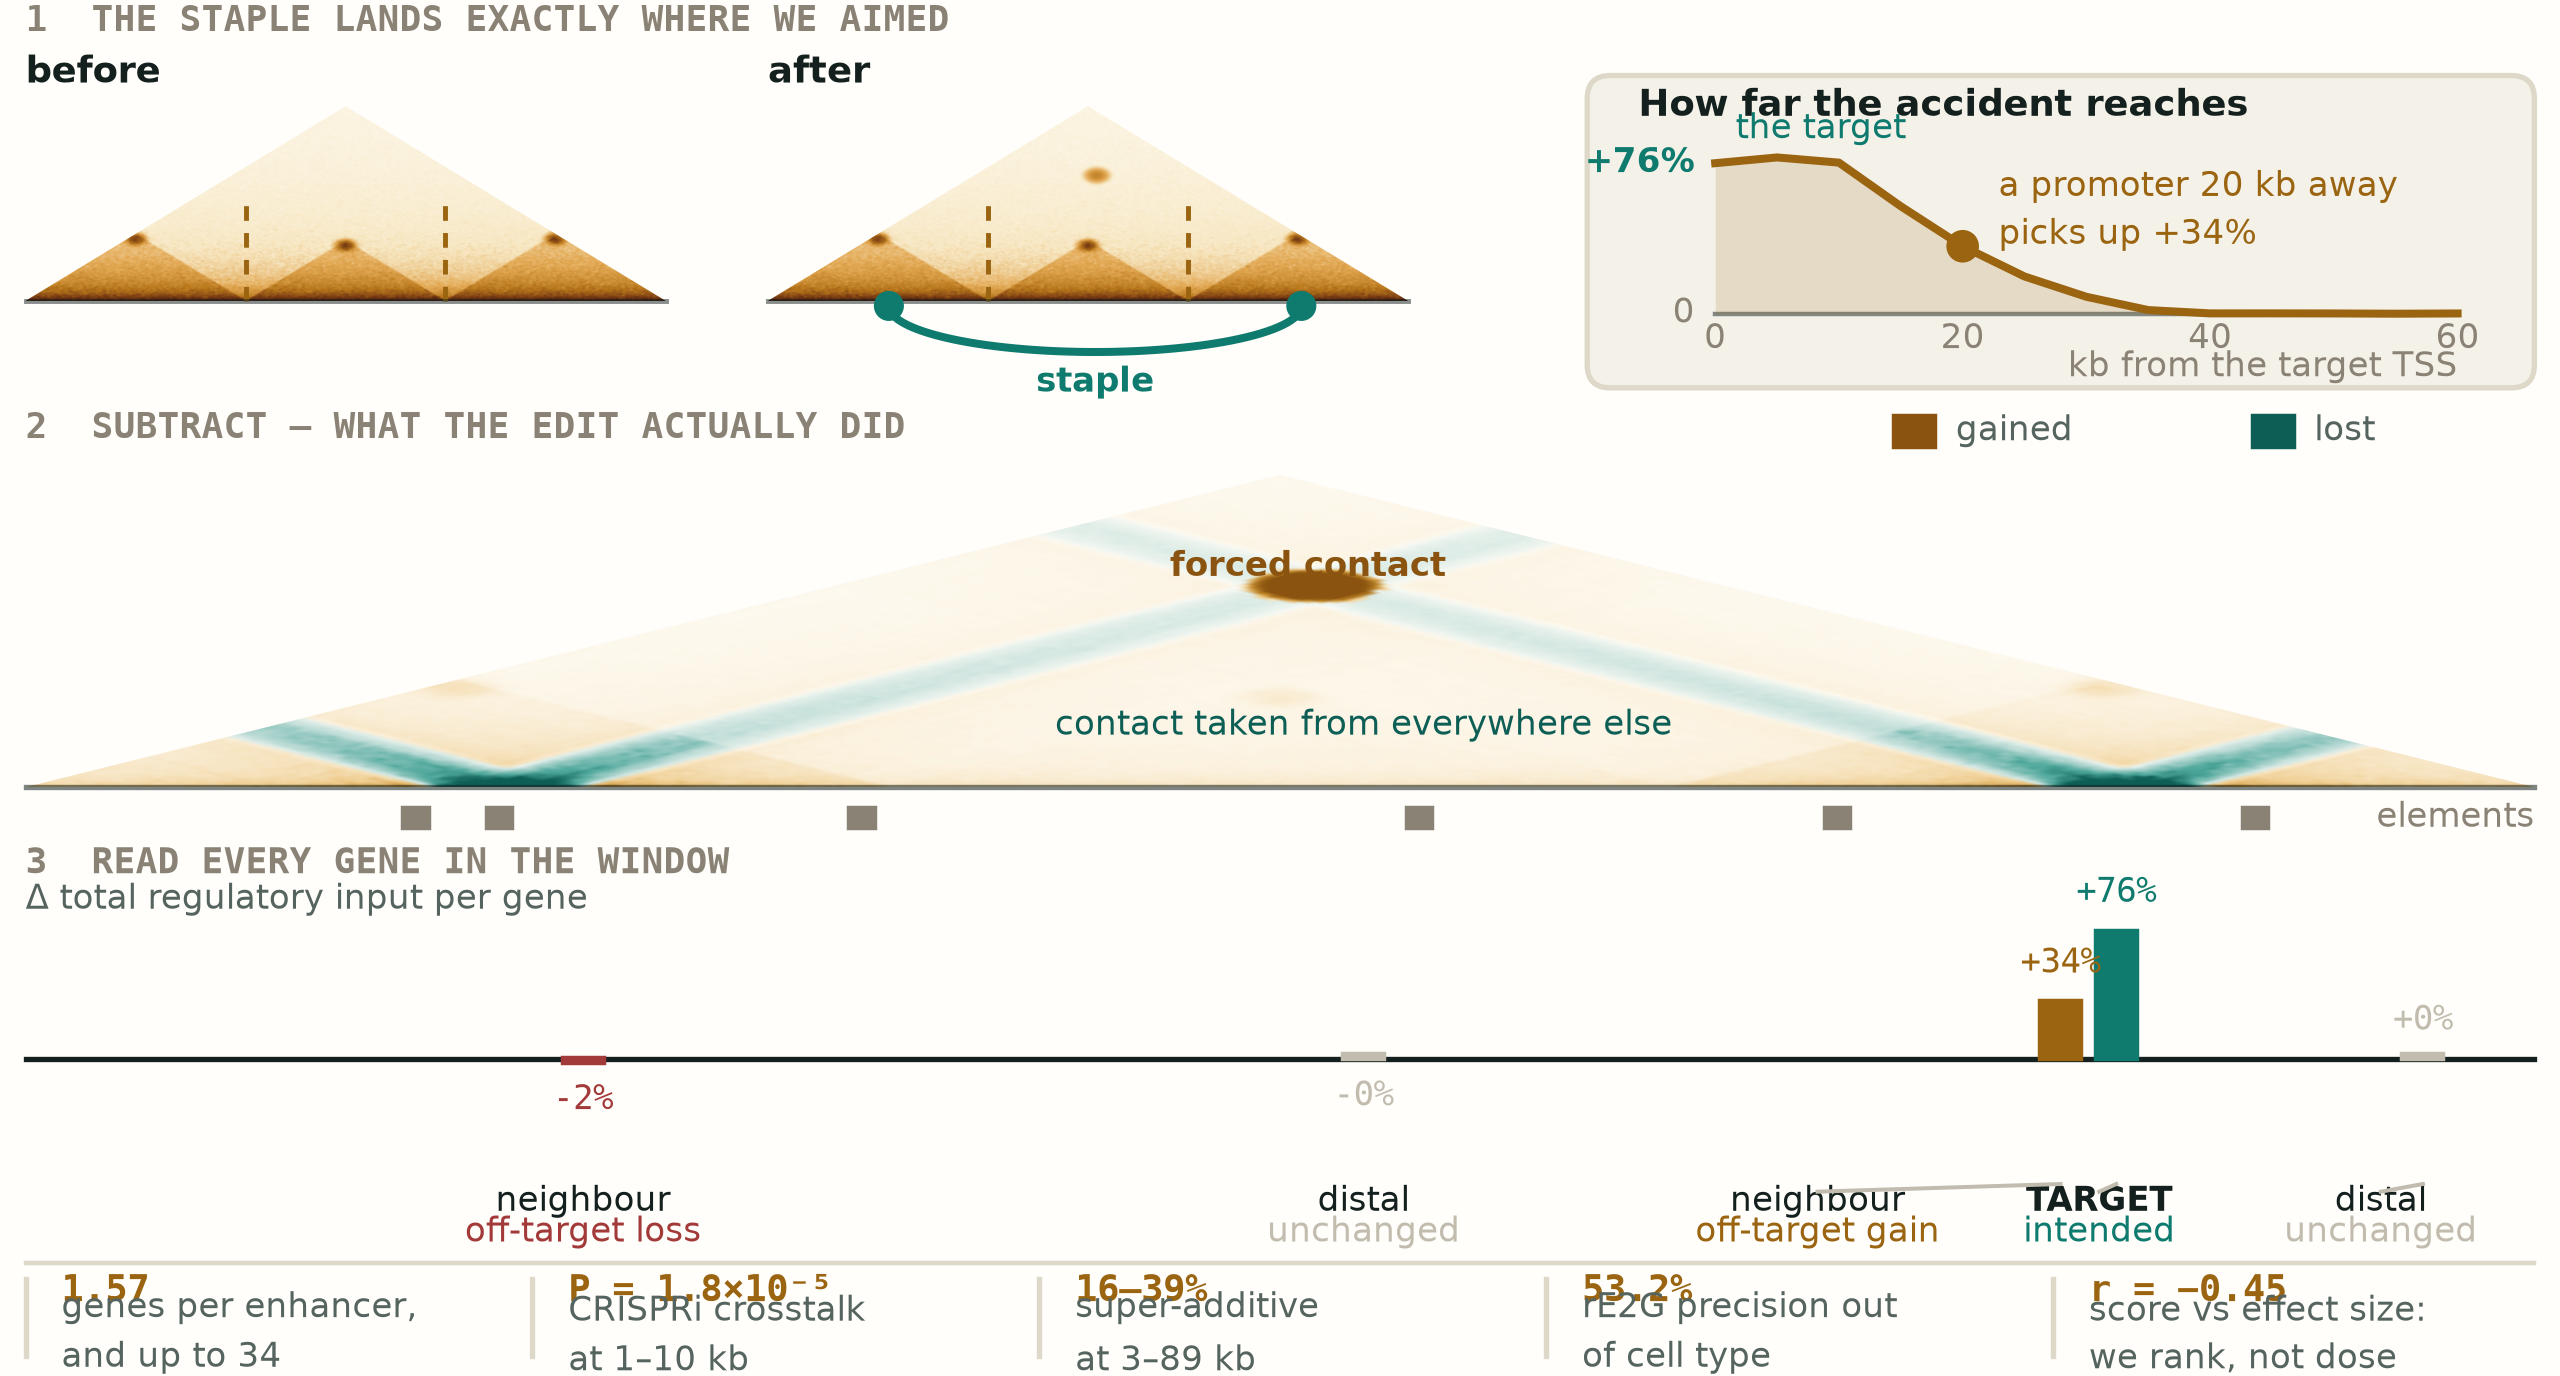
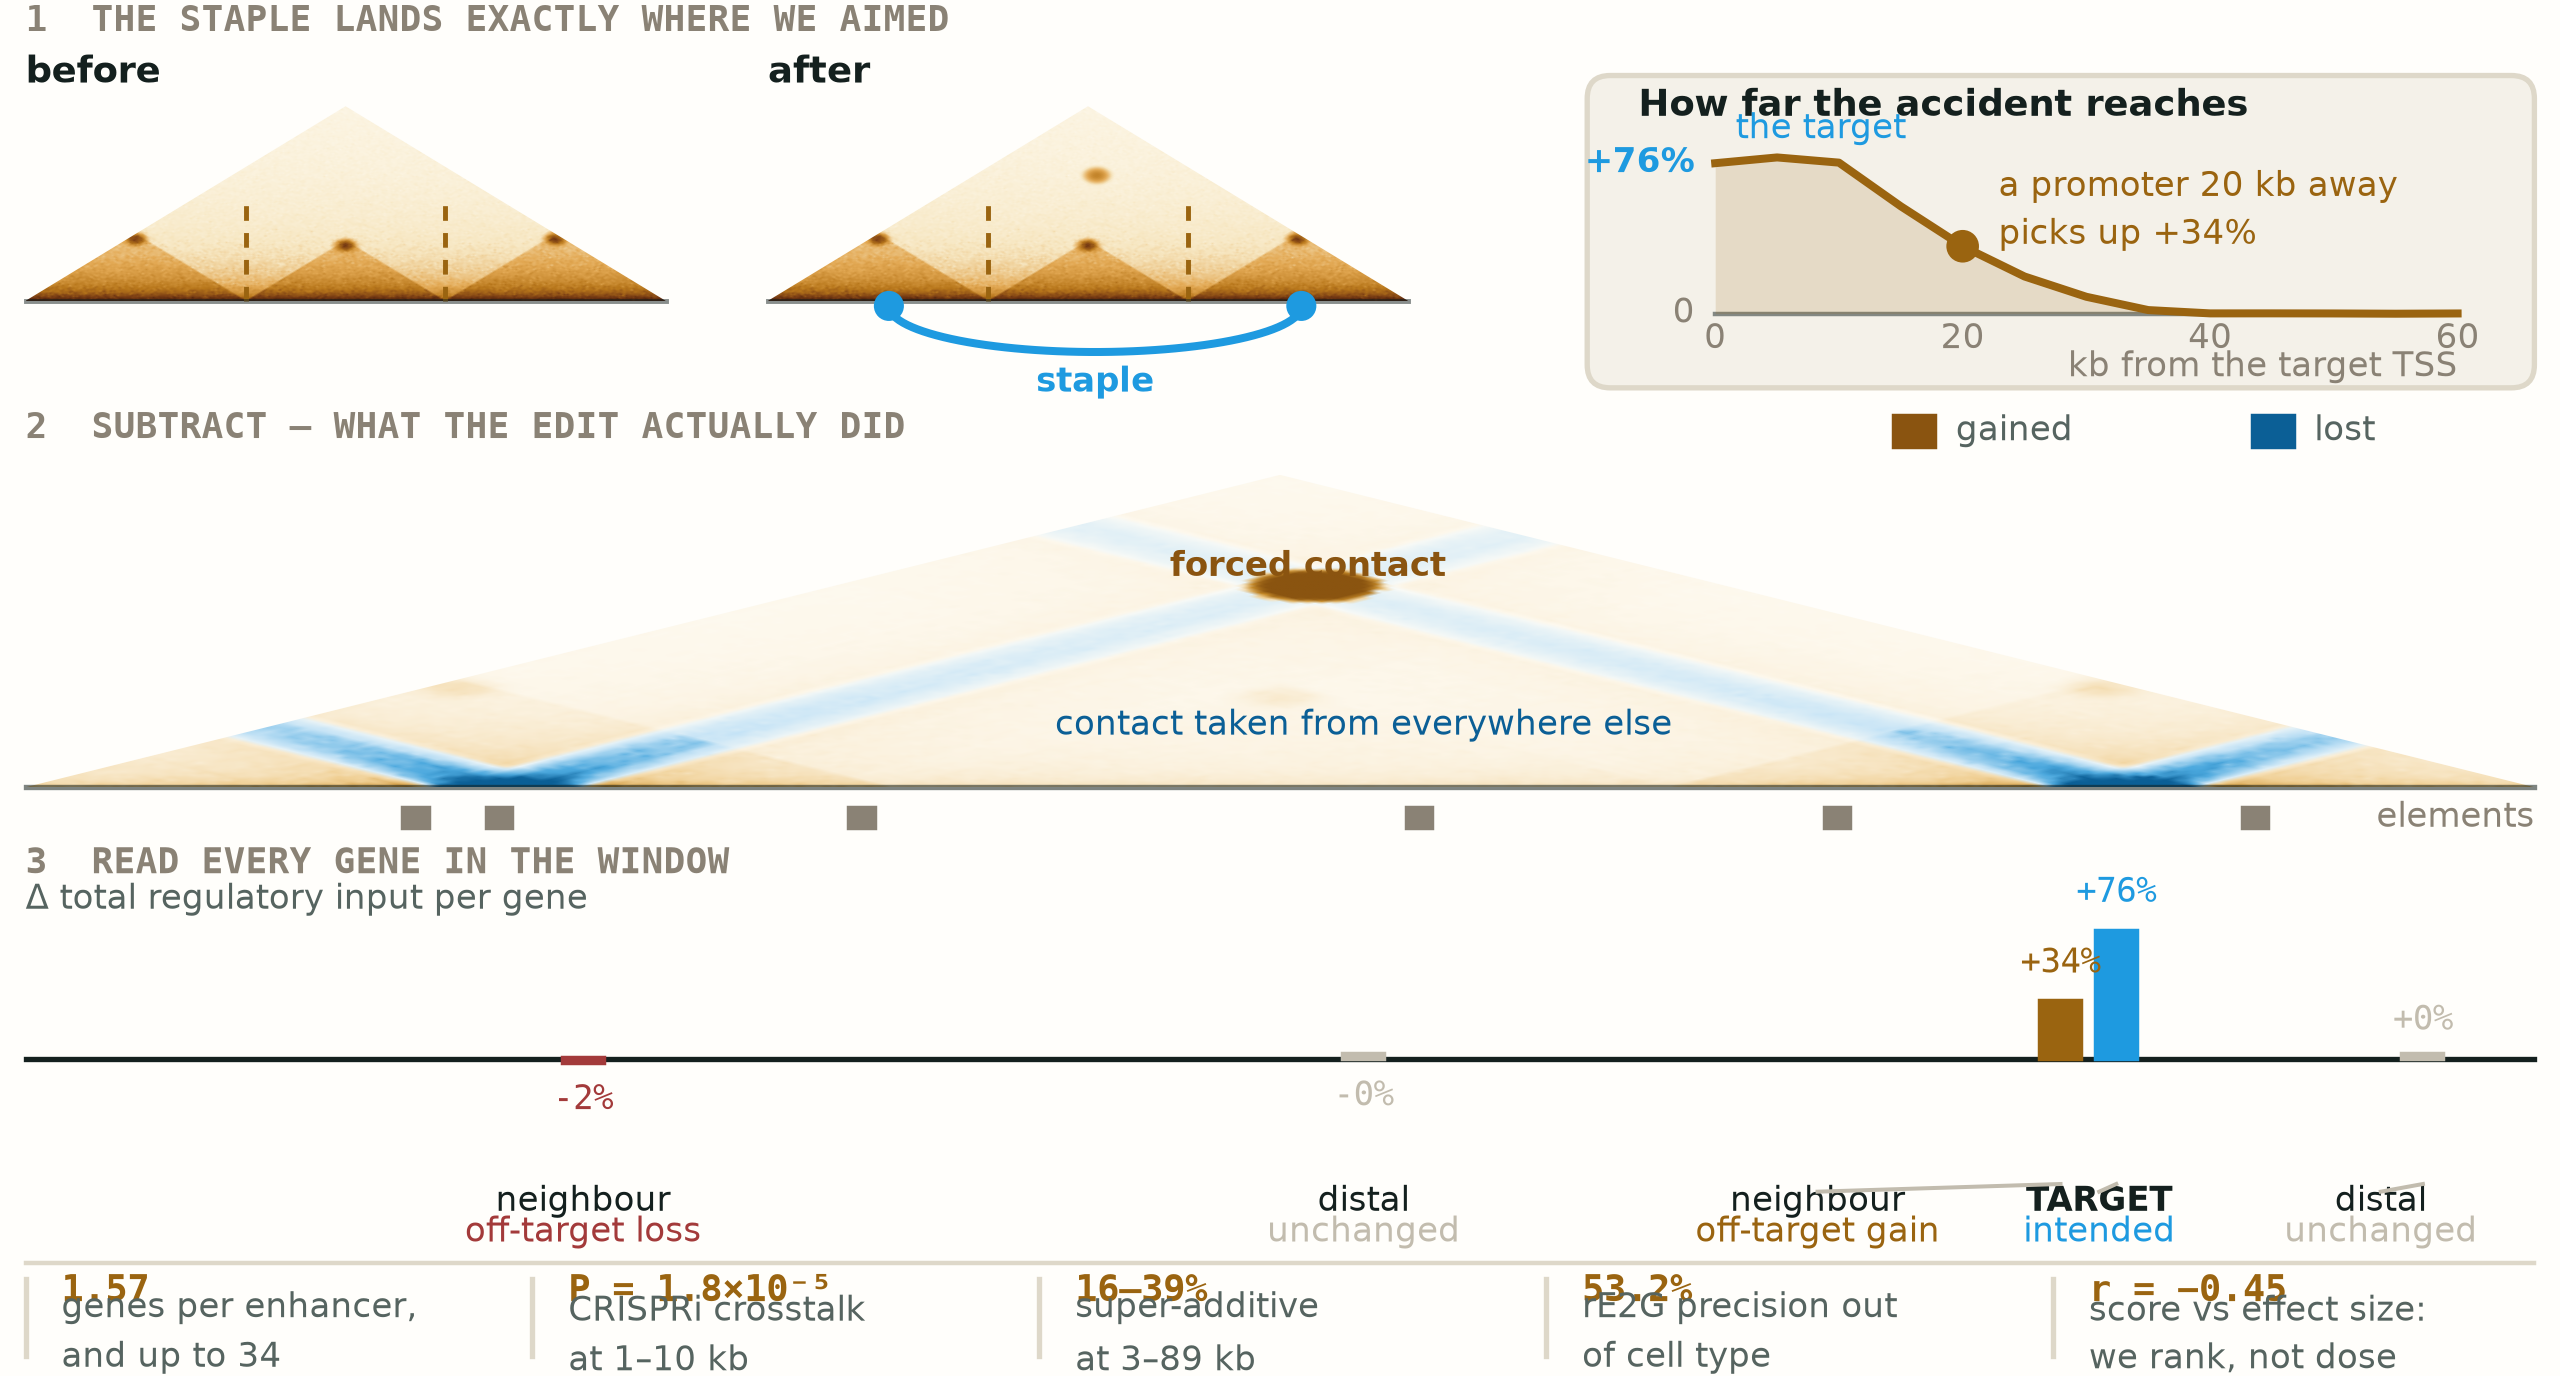
Render diagrams

diff --git a/animation/figures/offtarget_diagram.py b/animation/figures/offtarget_diagram.py
@@ -56,7 +56,7 @@ MAP_X0, MAP_X1 = 1.0, 99.0
 
 DIFF_CMAP = LinearSegmentedColormap.from_list(
     "diff",
-    ["#0d5f56", "#4fa89c", "#bcdbd6", "#fffdf7", "#f0cf93", "#c98d2a", "#8a5410"],
+    ["#0b5f96", "#4aa8de", "#c4e3f6", "#fffdf7", "#f0cf93", "#c98d2a", "#8a5410"],
 )
 
 RNG = np.random.default_rng(7)
@@ -249,8 +249,8 @@ def build(ax):
             fontsize=T_TINY, color="#8a5410", ha="center", va="center",
             weight="bold")
     ax.text(gx(96), 25.4, "contact taken from everywhere else",
-            fontsize=T_TINY, color="#0d5f56", ha="center", va="center")
-    for lbl, col, x in [("gained", "#8a5410", 74), ("lost", "#0d5f56", 88)]:
+            fontsize=T_TINY, color="#0b5f96", ha="center", va="center")
+    for lbl, col, x in [("gained", "#8a5410", 74), ("lost", "#0b5f96", 88)]:
         ax.add_patch(Rectangle((x, 36.3), 1.6, 1.2, color=col, zorder=5))
         ax.text(x + 2.4, 36.9, lbl, fontsize=T_TINY, color=MUTE,
                 va="center", zorder=5)

diff --git a/animation/figures/pipeline_diagram.py b/animation/figures/pipeline_diagram.py
@@ -4,7 +4,7 @@ Two bands. The top band builds one contact map from whatever evidence the
 cell type has. The bottom band uses that map: place anchors, force a contact,
 re-score the window, grade it on four axes, rank.
 
-Node fill marks who owns the module: teal for `pipeline/`, amber for
+Node fill marks who owns the module: blue for `pipeline/`, amber for
 `scoring/`. Thumbnails (sequence, ATAC, Hi-C, the dose-response curve, the
 window bars) are drawn from synthetic data with realistic statistics --
 polymer distance decay, TAD blocks, CTCF-anchored corner dots, peaky ATAC
@@ -36,7 +36,7 @@ from matplotlib.patches import FancyArrowPatch, FancyBboxPatch, Rectangle
 BG = "#fffefb"
 PANEL = "#f4f1e9"
 INK = "#14201e"
-TEAL = "#0f7a6e"
+TEAL = "#1e9ae0"  # light blue (deck accent)
 AMBER = "#9a6410"
 ROSE = "#a33a3a"
 GREY = "#8a8275"
